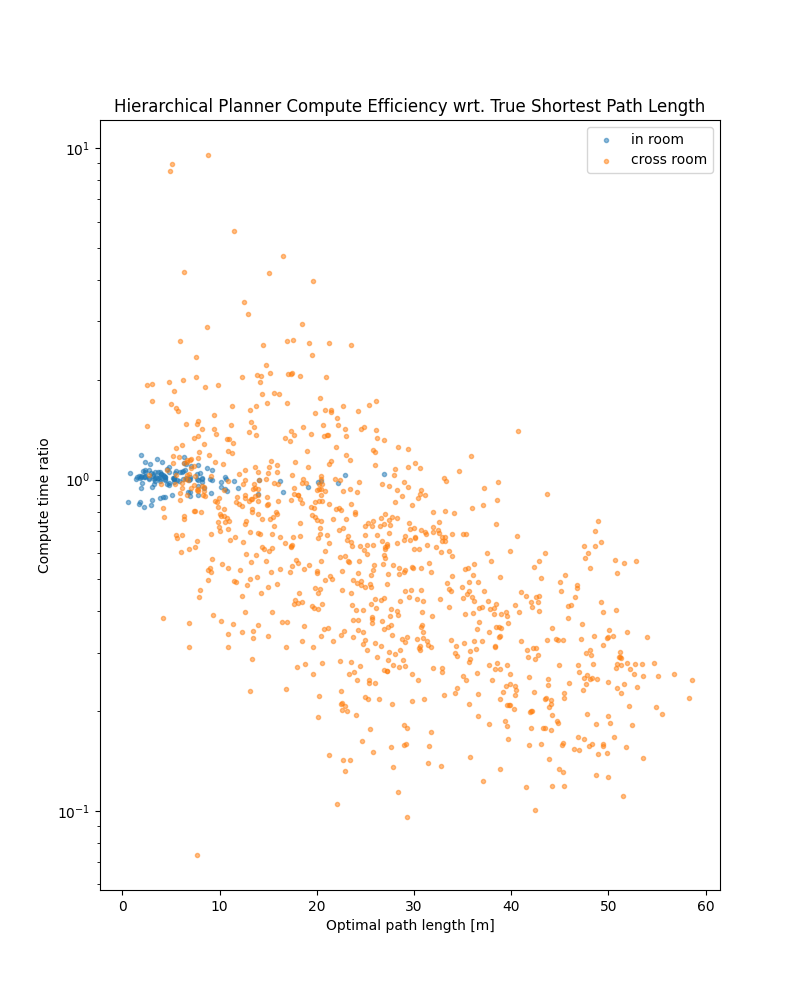
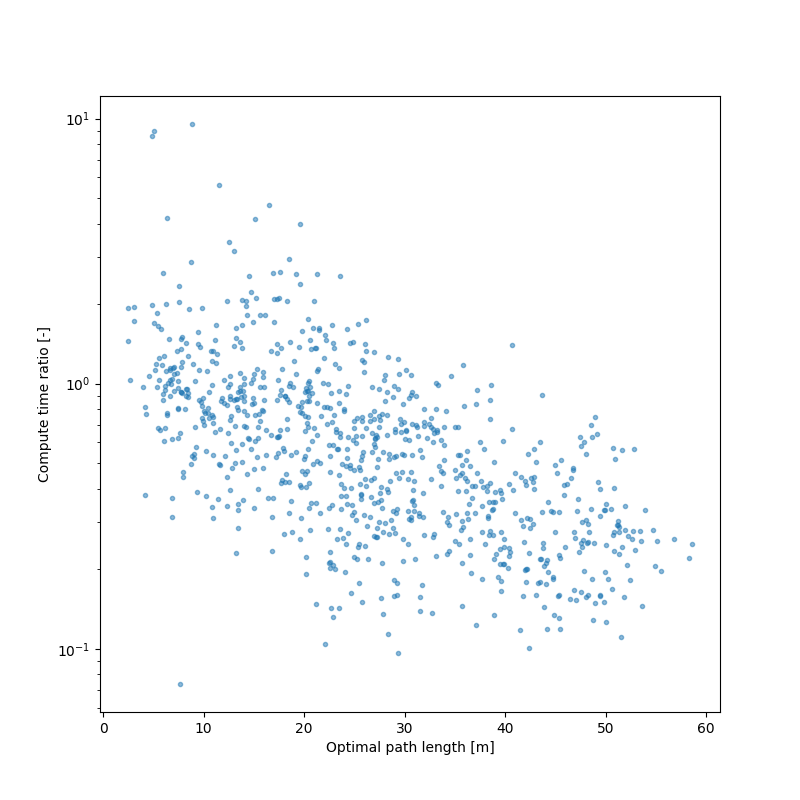
Update time and compute plots

diff --git a/comparisons.py b/comparisons.py
@@ -105,22 +105,43 @@ if __name__ == "__main__":
     print(f"Cost ratio stdev = {np.std(np.concatenate((hier_costs_in, hier_costs_cross)) / np.concatenate((optimal_costs_in, optimal_costs_cross)))}")
 
     alpha = 0.5
-    fig, ax = plt.subplots(figsize=(8, 10))
+    fig, ax = plt.subplots(figsize=(8, 8))
     ax.scatter(optimal_costs_in, hier_costs_in / optimal_costs_in, marker='.', alpha=alpha, label="in room")
     ax.scatter(optimal_costs_cross, hier_costs_cross / optimal_costs_cross, marker='.', alpha=alpha, label="cross room")
     # ax.set_yscale("log")
     ax.set_xlabel("Optimal path length [m]")
     ax.set_ylabel("Path length ratio")
     ax.legend()
-    ax.set_title("Hierarchical Planner Cost Suboptimality wrt. True Shortest Path Length")
-    fig.savefig("plots/costs.png")
+    # ax.set_title("Hierarchical Planner Cost Suboptimality wrt. True Shortest Path Length")
+    fig.savefig("plots/costs_ratio.png")
 
-    fig, ax = plt.subplots(figsize=(8, 10))
+    fig, ax = plt.subplots(figsize=(8, 8))
     ax.scatter(optimal_costs_in, time_ratios_in, marker='.', alpha=alpha,  label="in room")
     ax.scatter(optimal_costs_cross, time_ratios_cross, marker='.', alpha=alpha, label="cross room")
     ax.set_yscale("log")
     ax.set_xlabel("Optimal path length [m]")
     ax.set_ylabel("Compute time ratio")
     ax.legend()
-    ax.set_title("Hierarchical Planner Compute Efficiency wrt. True Shortest Path Length")
+    # ax.set_title("Hierarchical Planner Compute Efficiency wrt. True Shortest Path Length")
+    fig.savefig("plots/times_ratio.png")
+
+    fig, ax = plt.subplots(figsize=(8, 8))
+    # ax.scatter(optimal_costs_in, hier_costs_in / optimal_costs_in, marker='.', alpha=alpha, label="in room")
+    ax.scatter(optimal_costs_cross, hier_costs_cross / optimal_costs_cross, marker='.', alpha=alpha, label="Layer A*")
+    # ax.scatter(optimal_costs_cross, hier_costs_cross, marker='.', alpha=alpha, label="Hierarchical A*")
+    # ax.set_yscale("log")
+    ax.set_xlabel("Optimal path length [m]")
+    ax.set_ylabel("Path length ratio [-]")
+    # ax.legend()
+    # ax.set_title("Hierarchical Planner Cost Suboptimality wrt. True Shortest Path Length")
+    fig.savefig("plots/costs.png")
+
+    fig, ax = plt.subplots(figsize=(8, 8))
+    ax.scatter(optimal_costs_cross, np.array(cross_room_hierarchical['times'])/np.array(cross_room_place_layer['times']), marker='.', alpha=alpha)
+    # ax.scatter(optimal_costs_cross, cross_room_hierarchical['times'], marker='.', alpha=alpha, label="Hierarchical A*")
+    ax.set_yscale("log")
+    ax.set_xlabel("Optimal path length [m]")
+    ax.set_ylabel("Compute time ratio [-]")
+    # ax.legend()
+    # ax.set_title("Hierarchical Planner Compute Efficiency wrt. True Shortest Path Length")
     fig.savefig("plots/times.png")

diff --git a/astar_object.py b/astar_object.py
@@ -42,12 +42,13 @@ dsg.add_bounding_boxes_to_layer(G, dsg.DsgLayers.ROOMS)
 
 object_layer = G.get_layer(dsg.DsgLayers.OBJECTS)
 object_nodes = list(object_layer.nodes)
-for obj in object_nodes:
-    print(obj.attributes.name)
+# for obj in object_nodes:
+#     print(obj.attributes.name)
+objects_unique, counts = np.unique([obj.attributes.name for obj in object_nodes], return_counts=True)
+print(f"Unique object list: {objects_unique}")
+print(f"Their counts: {counts}")
 
-# print("Testing object navigation (layer A*)")
-objects = ["fan_papers_keyboard_laptop_mouse", "trashcan", "chair", "plant", "painting", "couch"]
-print(f"Choose object from {objects}")
+
 target_object = "couch"
 
 room_layer = G.get_layer(dsg.DsgLayers.ROOMS)
@@ -115,7 +116,7 @@ for obj in object_nodes:
 
 plt.xlabel("x [m]")
 plt.ylabel("y [m]")
-plt.title("Hierarchical A* Path to Object")
+# plt.title("Hierarchical A* Path to Object")
 plt.legend()
 plt.gca().set_aspect('equal', adjustable='box')  # ensure physical aspect ratio is maintained
 plt.savefig("plots/astar_object.png")
